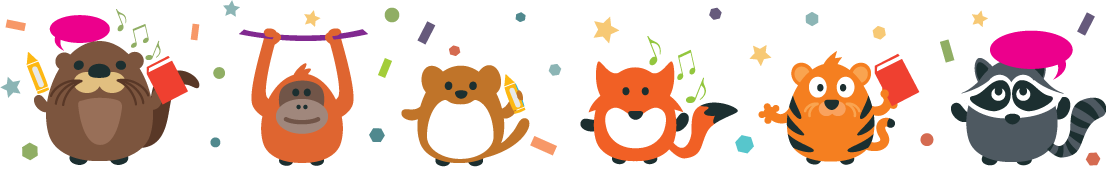
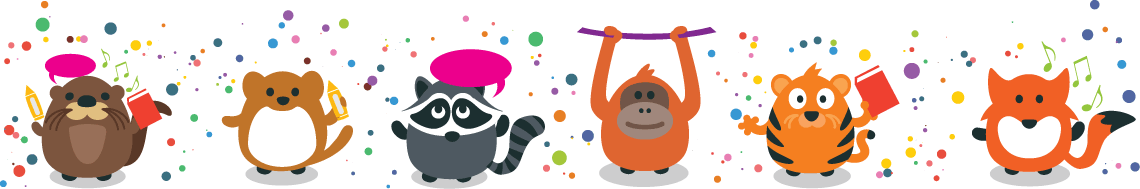
adding images

diff --git a/storytime/index.html b/storytime/index.html
@@ -1,5 +1,6 @@
 <!DOCTYPE html>
-<html lang="en"><!-- InstanceBegin template="/Templates/page.dwt" codeOutsideHTMLIsLocked="false" -->
+<html lang="en">
+<!-- InstanceBegin template="/Templates/page.dwt" codeOutsideHTMLIsLocked="false" -->
 <head>
 <meta charset="utf-8">
 <meta http-equiv="X-UA-Compatible" content="IE=edge">
@@ -241,8 +242,14 @@
           <div class="tab-content padding-top-30 padding-left-15 padding-right-15">
             <div role="tabpanel" class="tab-pane fade in active" id="one">
               <div class="hours-wrapper">
-                <div>Early literacy is what children know about reading and writing before they can actually read or write. Storytime nurtures six important pre-reading skills:<br><a href="#" rel="popover" data-placement="top" data-trigger="focus" data-content="Tell Me a Story">narrative skills</a>, <a href="#" rel="popover" data-placement="top" data-trigger="focus" data-content="Take Time to Rhyme">phonological awareness</a>, <a href="#" rel="popover" data-placement="top" data-trigger="focus" data-content="Look for Letters">letter knowledge</a>, <a href="#" rel="popover" data-placement="top" data-trigger="focus" data-content="Books Are Fun">print motivation</a>, <a href="#" rel="popover" data-placement="top" data-trigger="focus" data-content="Explore New Words">vocabulary</a>, and <a href="#" rel="popover" data-placement="top" data-trigger="focus" data-content="Words Are Everywhere">print awareness</a>.</div>
-                <h5>Storytime at Douglas County Libraries emphasizes <a href="../read-listen-watch">five simple activities</a> — reading, talking, writing, singing and playing — that help children learn the skills to be ready to read. You can build on your child’s learning by incorporating these activities into your day as well — maybe you already are!</h5>
+                <div>
+                  <h5>Early literacy is what children know about reading and writing before they can actually read or write. Storytime nurtures six important pre-reading skills:<br>
+                    <a href="#" rel="popover" data-placement="top" data-trigger="focus" data-content="Tell Me a Story">narrative skills</a>, <a href="#" rel="popover" data-placement="top" data-trigger="focus" data-content="Take Time to Rhyme">phonological awareness</a>, <a href="#" rel="popover" data-placement="top" data-trigger="focus" data-content="Look for Letters">letter knowledge</a>, <a href="#" rel="popover" data-placement="top" data-trigger="focus" data-content="Books Are Fun">print motivation</a>, <a href="#" rel="popover" data-placement="top" data-trigger="focus" data-content="Explore New Words">vocabulary</a>, and <a href="#" rel="popover" data-placement="top" data-trigger="focus" data-content="Words Are Everywhere">print awareness</a>.</h5>
+                </div>
+                <div style="height:200px;background:transparent url(storytime.png) top center no-repeat;"></div>
+                <div>
+                  <h5>Storytime at Douglas County Libraries emphasizes five simple activities — reading, talking, writing, singing and playing — that help children learn the skills to be ready to read. You can build on your child’s learning by incorporating these activities into your day as well — maybe you already are!</h5>
+                </div>
               </div>
             </div>
             <div role="tabpanel" class="tab-pane fade" id="two">
@@ -508,15 +515,15 @@
   </div>
 </div>
 <!-- remove for now <a id="help" class="btn btn-primary text-uppercase" href="http://answers.douglascountylibraries.org/" target="_blank">Help</a>--> 
-<!-- InstanceBeginEditable name="scripts" -->
+<!-- InstanceBeginEditable name="scripts" --> 
 <script>
 $("a[rel=popover]")
     .popover()
     .click(function(e) {
         e.preventDefault();
      });
- </script>
- <!-- InstanceEndEditable --> 
+ </script> 
+<!-- InstanceEndEditable --> 
 <script async="async" type="text/javascript">(function(){var e=document.createElement("script");
 e.src="https://dcl.bibliocommons.com/javascripts/sdk.js";
 e.async=true;var t=document.getElementsByTagName("script")[0];t.parentNode.insertBefore(e,t)})()</script> 
@@ -531,4 +538,5 @@ e.async=true;var t=document.getElementsByTagName("script")[0];t.parentNode.inser
 
 </script>
 </body>
-<!-- InstanceEnd --></html>
+<!-- InstanceEnd -->
+</html>
